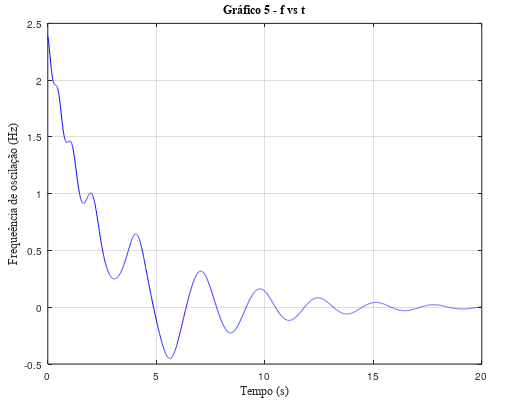
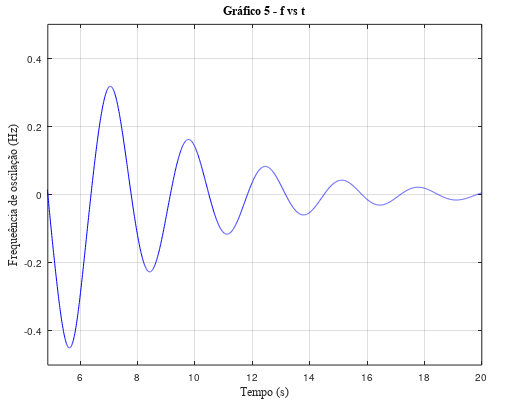
pratica 5 alteracoes 3

diff --git a/Prática 5/prat5.m b/Prática 5/prat5.m
@@ -7,10 +7,10 @@ function [] = prat5
   end
 
   %=== Resolucao da EDO ===
-  ti=0;  tf=20;  dt=0.01;  %- Definicao dos intervalos
+  ti=0;  tf=20;  dt=0.01;   %- Definicao dos intervalos
   [t,theta_t]=ode45(@(t,theta) df_dt(t,theta),[ti:dt:tf],[0; 15]);
-  f_theta=theta_t(:,1);   %- Angulo
-  f_w=theta_t(:,2);       %- Velocidade angular
+  f_theta=theta_t(:,1);     %- Angulo
+  f_w=theta_t(:,2);         %- Velocidade angular
 
   N=74;  r=(1+(N/100));  m=1;  c=0.5;  g=9.81;  %- Constantes do problema
 
@@ -49,10 +49,12 @@ function [] = prat5
   xlabel('Tempo (s)', 'FontName', 'Times', 'FontSize', 12)
   grid on;
 
+  t_osc=t(find(f_theta==max(f_theta)));    %- Encontrando o t em que a oscilacao comeca
   figure(5)
   plot(t, f_osc, 'b-');
   title('Gráfico 5 - f vs t', 'FontName', 'Times', 'FontSize', 12)
   ylabel('Frequeência de oscilação (Hz)', 'FontName', 'Times', 'FontSize', 12)
   xlabel('Tempo (s)', 'FontName', 'Times', 'FontSize', 12)
+  xlim([t_osc tf]);   ylim([-0.5 0.5])     %- Ajustando os limites
   grid on;
 end
